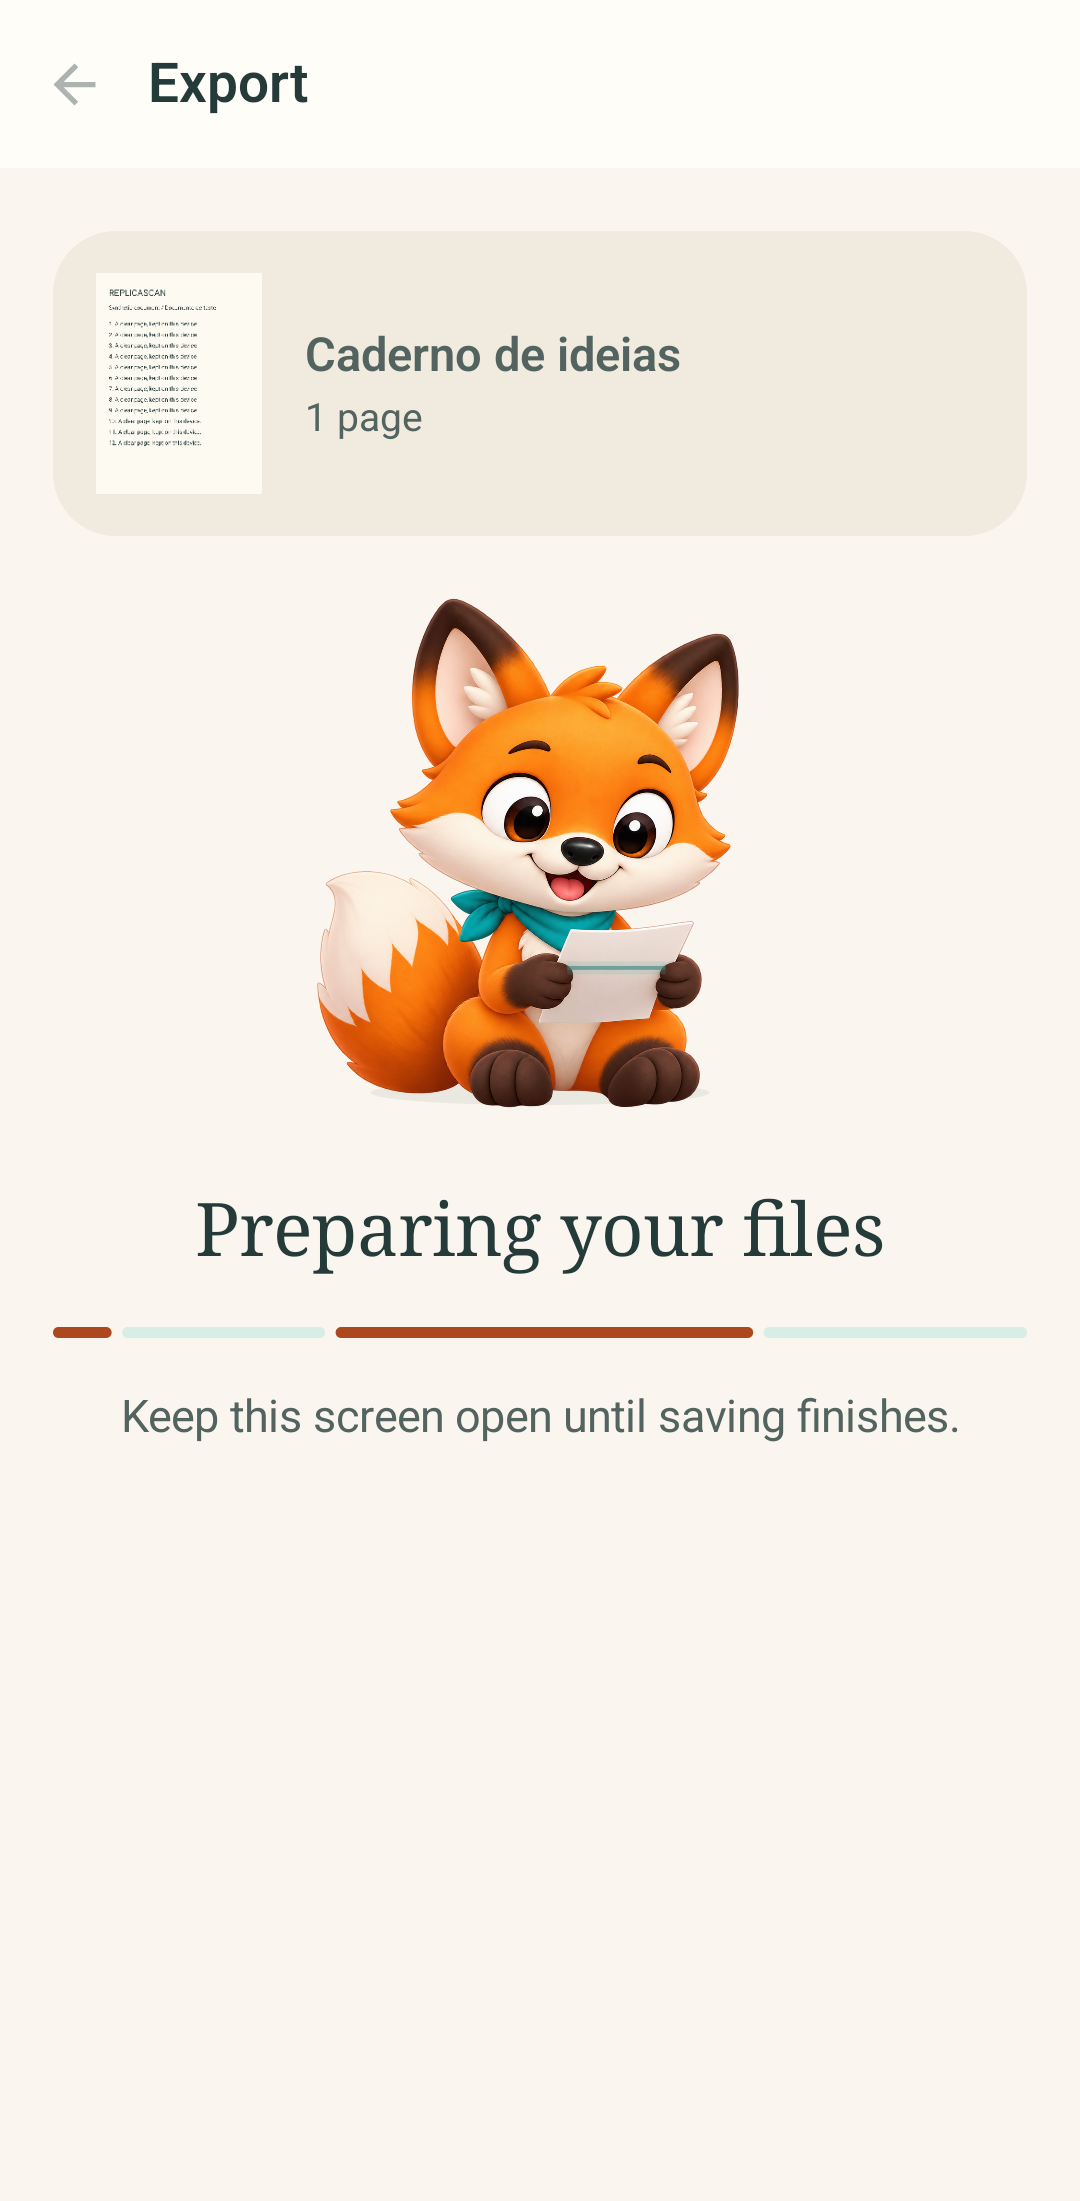
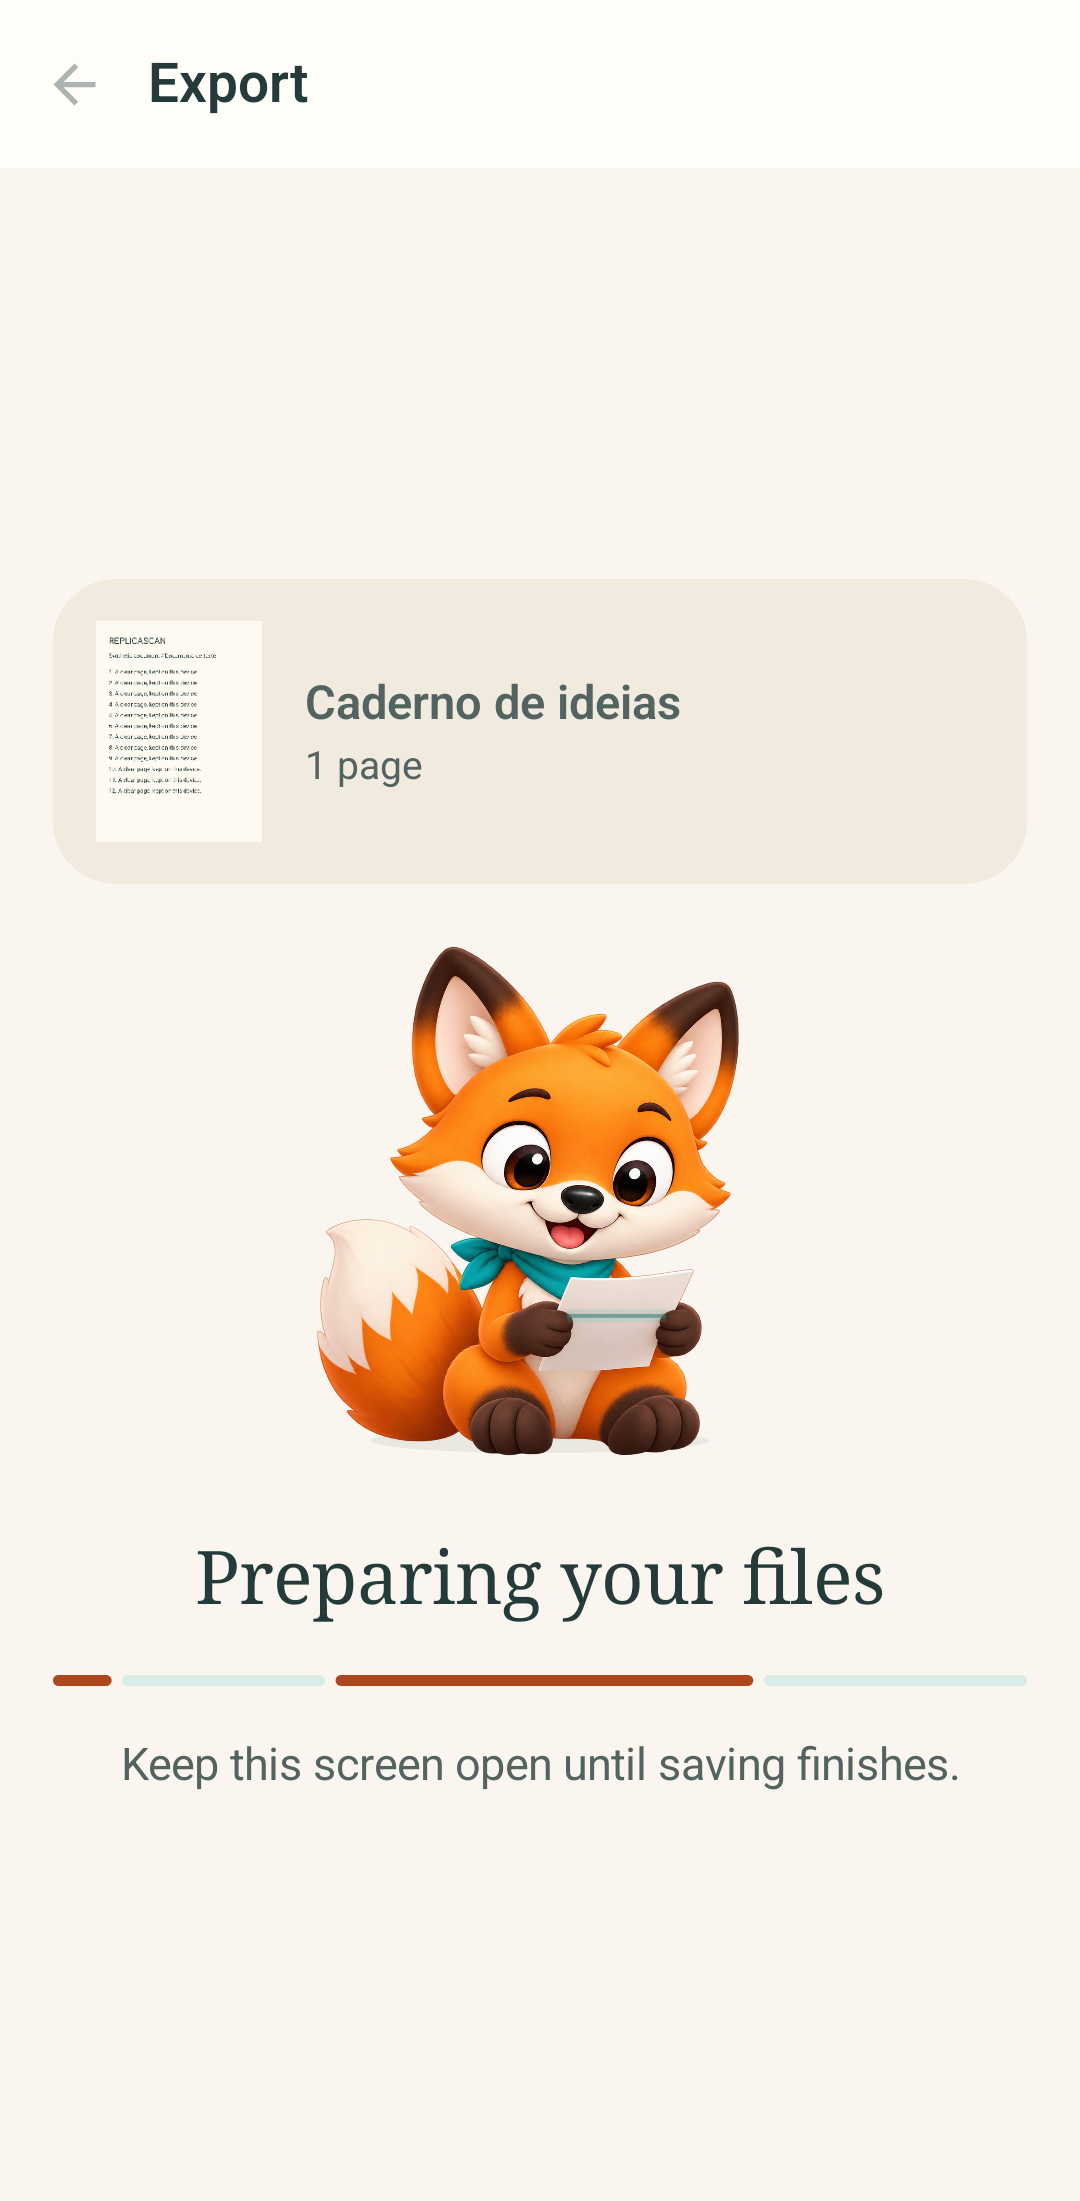
docs(design): capture centered export progress

diff --git a/docs/design/visual-recovery/SCREEN_REVIEW.md b/docs/design/visual-recovery/SCREEN_REVIEW.md
@@ -14,7 +14,7 @@ automaticamente todas as telas, o movimento ou a release.
 | Revisão, crop e filtros | A página é protagonista, o recorte mantém quatro cantos e página inteira por padrão. Não mover controles nem geometria sem corpus real e teste de gesto. | Preservado; QA físico pendente |
 | OCR carregando, pronto e vazio | Texto reconhecido é a peça principal; o grande espaço livre com texto curto não deve ser preenchido por decoração. Estados de modelo e seleção precisam inspeção com OCR real e TalkBack. | Capturado com estado injetado; fluxo real pendente |
 | Exportação: PDF/JPG/PNG | Prévia, quantidade de páginas e formato atual agora formam uma superfície única; nome, qualidade e tamanho continuam editáveis e progressivos. Estado escuro com fonte 200% exige rolagem para opções inferiores. | Implementado; capturas API 34; aceite pendente |
-| Exportação: progresso, sucesso, erro | Progresso mostra a página real e trabalho em curso; sucesso identifica o arquivo; erro mantém recuperação. O progresso ainda tem espaço inferior e movimento de pose inteira. | Capturado com estado injetado; exportação real/aceite pendentes |
+| Exportação: progresso, sucesso, erro | Progresso mostra a página real e trabalho em curso, agora agrupados no centro da altura disponível; sucesso identifica o arquivo; erro mantém recuperação. O movimento continua por pose inteira. | Capturado com estado injetado; exportação real/aceite pendentes |
 | Histórico, busca, detalhe | Uma biblioteca com só um item deixa espaço livre; não adicionar conteúdo artificial. Busca e ações documentais devem ser exercitadas em aparelho. | Capturado; interação pendente |
 | Configurações, idioma, sobre | Grupos e alvos de toque estão claros, embora a linguagem visual ainda seja próxima do Material padrão. Validar todos os idiomas, RTL e fonte ampliada. | Capturado; revisão linguística/QA pendentes |
 | Ícone adaptativo | Raposa + documento são legíveis nas máscaras capturadas, mas o traço vetorial é mais plano que a mascote aprovada. | Divergência visual aberta; escolha do proprietário pendente |

diff --git a/CHANGELOG.md b/CHANGELOG.md
@@ -8,6 +8,7 @@ Este projeto segue Semantic Versioning e recomenda Conventional Commits no fluxo
 - Atlas deformado substituído por poses completas em Compose, com movimento discreto, respeito ao lifecycle/redução de movimento e clipe de frames Android. Exportação em andamento voltou a mostrar prévia e identificação da página.
 - Home com mascote mais legível e texto em largura completa; em fonte 200% a arte cede espaço ao conteúdo. Opções de exportação reúnem prévia, páginas e formato atual na mesma superfície.
 - Introdução usa saudação, leitura e sucesso nas três páginas, eliminando a repetição da pose de trabalho.
+- Progresso de exportação centralizado na área disponível, mantendo prévia, trabalho e estado legíveis em telas altas.
 - Site móvel corrigido para não expandir além de 390 px por causa do bloco de instalação.
 - Teste de swipe no onboarding agora inicia o gesto no pager e aguarda a página seguinte; regressão detectada no gate API 36 anterior.
 

diff --git a/docs/design/visual-recovery/evidence/README.md b/docs/design/visual-recovery/evidence/README.md
@@ -28,7 +28,7 @@ composição das telas e release ainda precisam de aceite expresso. O antigo
 
 Pontos abertos para esta revisão: a Home ainda deixa espaço inferior vazio
 quando a biblioteca é curta; as opções de exportação conservam controles de
-formulário e o progresso ainda tem espaço inferior pouco usado;
+formulário e o progresso ainda usa movimento de pose inteira;
 o ícone vetorial usa linguagem mais plana que a mascote; o movimento atual é
 discreto e não articula membros. A inspeção manual de transições, recorte com
 câmera real, tema escuro, fonte 200%, RTL e TalkBack também permanece pendente.
